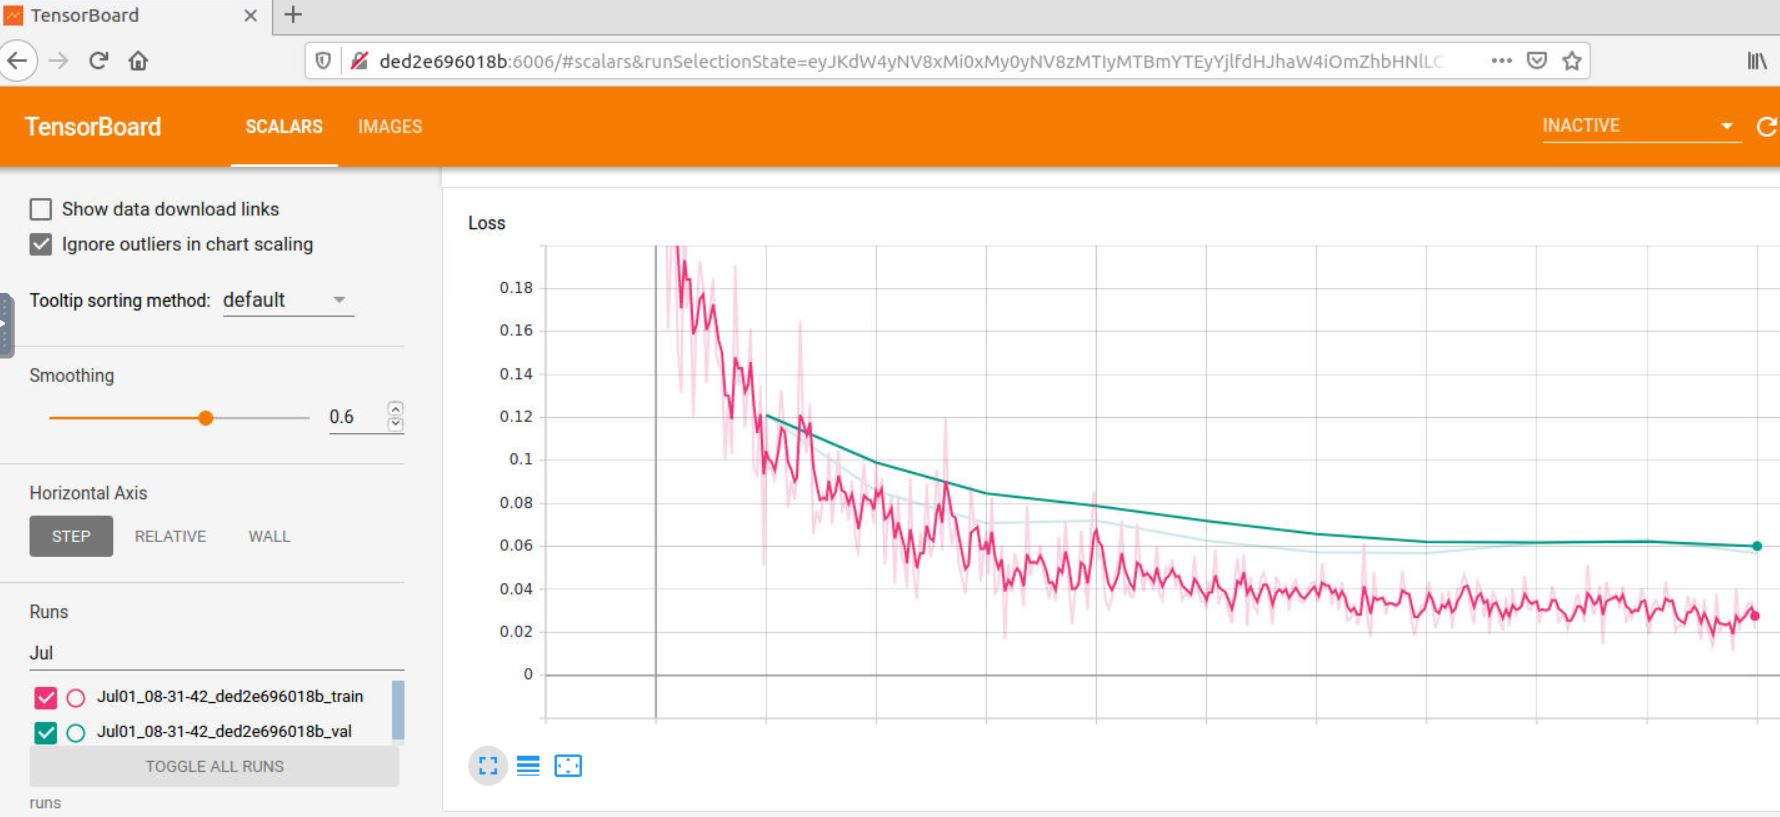
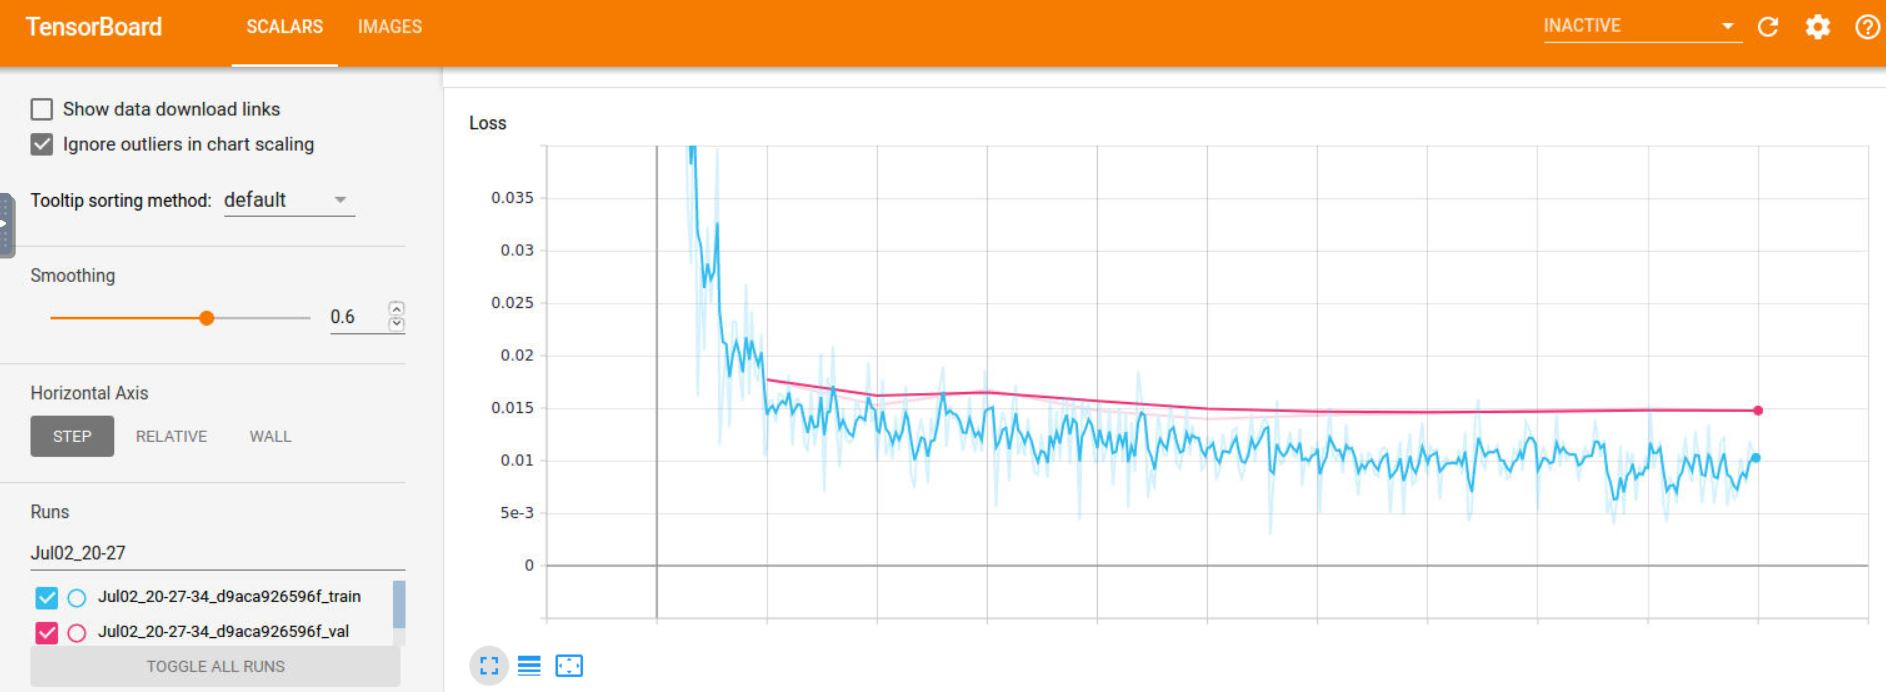
Updated Section 2 - med reshape fixed

diff --git a/section2/out/experiments/UNetExperiment.py b/section2/out/experiments/UNetExperiment.py
@@ -97,9 +97,11 @@ class UNetExperiment:
             # shape [BATCH_SIZE, 1, PATCH_SIZE, PATCH_SIZE] into variables data and target. 
             # Feed data to the model and feed target to the loss function
             # 
-            data = batch["image"].type(torch.cuda.FloatTensor)
+            #data = batch["image"].type(torch.cuda.FloatTensor)
+            #target = batch["seg"].to(device="cuda")
+            data = batch["image"].to(device="cuda")
             target = batch["seg"].to(device="cuda")
-
+            
             prediction = self.model(data)
 
             # We are also getting softmax'd version of prediction to output a probability map

diff --git a/section2/out/data_prep/SlicesDataset.py b/section2/out/data_prep/SlicesDataset.py
@@ -48,7 +48,7 @@ class SlicesDataset(Dataset):
         # Hint2: You can use None notation like so: arr[None, :] to add size-1 
         # dimension to a Numpy array
         
-        sample["image"] = torch.from_numpy(self.data[slc[0]]["image"][slc[1]]).unsqueeze(0) 
+        sample["image"] = torch.from_numpy(self.data[slc[0]]["image"][slc[1]]).unsqueeze(0).type(torch.FloatTensor)
         sample["seg"] = torch.from_numpy(self.data[slc[0]]["seg"][slc[1]]).unsqueeze(0)
 
         return sample

diff --git a/section2/out/utils/utils.py b/section2/out/utils/utils.py
@@ -96,6 +96,6 @@ def med_reshape(image, new_shape):
     reshaped_image = np.zeros(new_shape)
 
     # TASK: write your original image into the reshaped image
-    reshaped_image = np.resize(image, new_shape)
+    reshaped_image[:image.shape[0], :image.shape[1], :image.shape[2]] = image
     
     return reshaped_image
